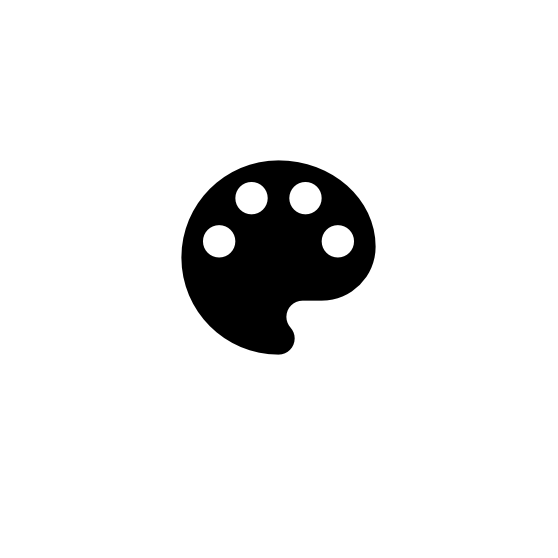
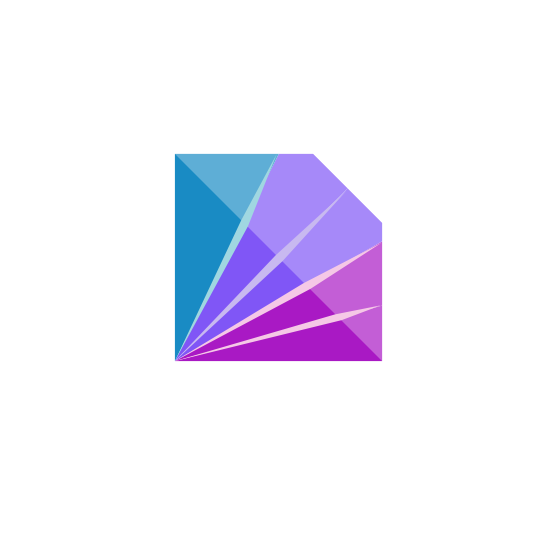
Update the page

Changed region(s): [[0.3047, 0.2742, 0.7007, 0.6703]]

diff --git a/icons/icons-demo.html b/icons/icons-demo.html
@@ -10,19 +10,19 @@
     </style>
   <head>
   <body>
-    <svg xmlns="http://www.w3.org/2000/svg" style="width:0;height:0;visibility:hidden;"><symbol viewBox="0 0 700.000000 700.000000" id="icon--safari-pinned-tab"> <metadata> Created by potrace 1.11, written by Peter Selinger 2001-2013 </metadata> <g transform="translate(0.000000,700.000000) scale(0.100000,-0.100000)" fill="#000000" stroke="none"> <path d="M3188 6105 c-1212 -153 -2152 -1098 -2293 -2304 -19 -161 -19 -441 0
--602 141 -1211 1093 -2163 2304 -2304 187 -22 363 -20 437 5 158 54 270 188
-293 350 17 127 -15 233 -109 360 -88 119 -120 229 -101 348 26 165 132 292
-288 349 61 22 76 23 346 23 314 1 483 10 602 35 597 123 1053 599 1150 1200
-19 121 19 351 0 497 -124 944 -878 1724 -1911 1978 -224 55 -362 72 -644 75
--176 3 -288 0 -362 -10z m-290 -583 c316 -99 412 -493 178 -728 -148 -147
--379 -167 -553 -48 -300 206 -224 670 126 778 66 21 178 19 249 -2z m1449 3
-c166 -49 286 -186 312 -355 41 -263 -162 -500 -428 -500 -126 0 -221 39 -307
-124 -134 135 -168 322 -89 494 70 153 221 250 391 251 39 1 93 -6 121 -14z
-m-2321 -1171 c127 -36 238 -146 285 -282 23 -67 25 -186 4 -255 -64 -212 -269
--343 -484 -310 -255 40 -423 293 -357 538 65 246 303 378 552 309z m3209 -1
-c227 -71 356 -316 285 -544 -95 -308 -474 -408 -713 -189 -90 83 -137 191
--137 321 0 293 283 499 565 412z"/> </g> </symbol><symbol viewBox="0 0 24 24" id="icon--progrees-circle"> <path d="m 12,4 c 4.4,0 8,3.6 8,8 0,4.4 -3.6,8 -8,8 C 7.6,20 4,16.4 4,12 3.3,11.4 2.7,11.2 2,12 2,17.5 6.5,22 12,22 17.5,22 22,17.5 22,12 22,6.5 17.5,2 12,2 11.2,2.7 11.4,3.3 12,4 Z"> <animateTransform xmlns="http://www.w3.org/2000/svg" attributeName="transform" type="rotate" values="0 12 12;180 12 12;360 12 12;" keyTimes="0;0.5;1" dur="1s" repeatCount="indefinite" begin="0s"/> </path> </symbol><symbol viewBox="0 0 24 24" id="icon--logo"> <sodipodi:namedview pagecolor="#ffffff" bordercolor="#666666" borderopacity="1" objecttolerance="10" gridtolerance="10" guidetolerance="10" inkscape:pageopacity="0" inkscape:pageshadow="2" inkscape:window-width="640" inkscape:window-height="480" id="icon--logo-namedview6" showgrid="false" inkscape:zoom="26.4375" inkscape:cx="8.3816834" inkscape:cy="10.294189" inkscape:current-layer="svg2" showguides="true" inkscape:guide-bbox="true"> <sodipodi:guide id="icon--logo-guide4136" orientation="0,24" position="0,0"/> <sodipodi:guide id="icon--logo-guide4138" orientation="-24,0" position="24,0"/> <sodipodi:guide id="icon--logo-guide4140" orientation="0,-24" position="24,24"/> <sodipodi:guide id="icon--logo-guide4142" orientation="24,0" position="0,24"/> <sodipodi:guide id="icon--logo-guide4159" position="0,24.0" orientation="0,24.0"/> <sodipodi:guide id="icon--logo-guide4161" position="24.0,0" orientation="0,24.0"/> <sodipodi:guide id="icon--logo-guide4163" position="0,24.0" orientation="24.0,0"/> <sodipodi:guide orientation="0,24.0" position="0,21.6" id="icon--logo-guide4328"/> <sodipodi:guide orientation="0,24.0" position="0,2.4" id="icon--logo-guide4330"/> <sodipodi:guide orientation="24.0,0" position="2.4,0" id="icon--logo-guide4332"/> <sodipodi:guide orientation="24.0,0" position="21.6,0" id="icon--logo-guide4334"/> <sodipodi:guide orientation="0,19.2" position="0,8.8" id="icon--logo-guide4336"/> <sodipodi:guide orientation="0,19.2" position="0,15.2" id="icon--logo-guide4338"/> <sodipodi:guide orientation="19.2,0" position="8.8,0" id="icon--logo-guide4340"/> <sodipodi:guide orientation="19.2,0" position="15.2,0" id="icon--logo-guide4342"/> <sodipodi:guide id="icon--logo-guide4601" position="24.0,0" orientation="0.525321988818,0.525321988818"/> <sodipodi:guide id="icon--logo-guide4603" position="24.0,24.0" orientation="-0.850903524534,0.850903524534"/> <sodipodi:guide position="21.6,15.2" orientation="0.70710678,0.70710678" id="icon--logo-guide4637"/> <sodipodi:guide position="2.4,2.4" orientation="-0.5,0.8660254" id="icon--logo-guide4674"/> <sodipodi:guide position="2.4,2.4" orientation="-0.25881905,0.96592583" id="icon--logo-guide4676"/> </sodipodi:namedview>  <metadata id="icon--logo-metadata12"> <rdf:RDF> <cc:Work rdf:about=""> <dc:format>image/svg+xml</dc:format> <dc:type rdf:resource="http://purl.org/dc/dcmitype/StillImage"/> <dc:title/> </cc:Work> </rdf:RDF> </metadata> <path d="m 2.4,21.6 16,-16 -3.2,-3.2 -3.171631,0 L 8.8,8.8 Z" id="icon--logo-path4686" inkscape:connector-curvature="0"/> <g id="icon--logo-g4645"> <path inkscape:connector-curvature="0" id="icon--logo-path4639" d="M 2.4,21.6 8.8,8.8 12,12 18.4,5.6 15.2,2.4 2.4,2.4 Z"/> <path sodipodi:nodetypes="cccc" inkscape:connector-curvature="0" id="icon--logo-path4641" d="M 12.028369,2.4 15.2,2.4 8.8,8.8 Z"/> <path inkscape:connector-curvature="0" id="icon--logo-path4643" d="M 2.4,21.6 12.028369,2.4 2.4,2.4 Z"/> </g> <path d="m 2.4,21.6 19.2,-11.085125 0,5.9405 z" id="icon--logo-path4682" inkscape:connector-curvature="0"/> <path d="M 2.4,21.6 21.6,10.514875 21.6,8.8 18.4,5.6 Z" id="icon--logo-path4684" inkscape:connector-curvature="0"/> <path d="M 2.4,21.6 21.6,16.455375 21.6,21.6 Z" id="icon--logo-path4688" inkscape:connector-curvature="0"/> </symbol><symbol viewBox="0 0 24 24" id="icon--add"> <path d="M0 0h24v24H0z" fill="none"/> <path d="M13 7h-2v4H7v2h4v4h2v-4h4v-2h-4V7zm-1-5C6.48 2 2 6.48 2 12s4.48 10 10 10 10-4.48 10-10S17.52 2 12 2zm0 18c-4.41 0-8-3.59-8-8s3.59-8 8-8 8 3.59 8 8-3.59 8-8 8z"/> </symbol><symbol viewBox="0 0 24 24" id="icon--download"> <path d="M19 9h-4V3H9v6H5l7 7 7-7zM5 18v2h14v-2H5z"/> <path d="M0 0h24v24H0z" fill="none"/> </symbol><symbol viewBox="0 0 24 24" id="icon--github"><path fill="none" d="M0 0h24v24H0z"/><path fill-rule="evenodd" d="M12 2.5c-5.52 0-10 4.47-10 10 0 4.4 2.87 8.16 6.84 9.48.5.1.68-.2.68-.48v-1.7c-2.8.6-3.38-1.34-3.38-1.34C5.68 17.3 5.04 17 5.04 17c-.92-.62.06-.6.06-.6 1 .06 1.53 1.02 1.53 1.02.9 1.53 2.34 1.1 2.9.83.1-.65.36-1.1.64-1.34-2.22-.2-4.55-1.1-4.55-4.9 0-1.1.4-2 1.03-2.7-.1-.24-.45-1.25.1-2.63 0 0 .84-.27 2.75 1.03.8-.24 1.65-.35 2.5-.35.85 0 1.7.1 2.5.34 1.9-1.3 2.75-1.05 2.75-1.05.55 1.38.2 2.4.1 2.65.64.7 1.03 1.58 1.03 2.67 0 3.84-2.34 4.7-4.57 4.94.4.3.7.94.7 1.88v2.74c0 .28.2.6.7.5 3.98-1.33 6.8-5.08 6.8-9.5 0-5.5-4.44-10-10-10"/></symbol><symbol viewBox="0 0 24 24" id="icon--less"> <path d="M15.41 16.09l-4.58-4.59 4.58-4.59L14 5.5l-6 6 6 6z"/> <path d="M0-.5h24v24H0z" fill="none"/> </symbol><symbol viewBox="0 0 24 24" id="icon--link"><path d="M16,6H13V7.9H16C18.26,7.9 20.1,9.73 20.1,12A4.1,4.1 0 0,1 16,16.1H13V18H16A6,6 0 0,0 22,12C22,8.68 19.31,6 16,6M3.9,12C3.9,9.73 5.74,7.9 8,7.9H11V6H8A6,6 0 0,0 2,12A6,6 0 0,0 8,18H11V16.1H8C5.74,16.1 3.9,14.26 3.9,12M8,13H16V11H8V13Z"/></symbol><symbol viewBox="0 0 24 24" id="icon--more"> <path d="M8.59 16.34l4.58-4.59-4.58-4.59L10 5.75l6 6-6 6z"/> <path d="M0-.25h24v24H0z" fill="none"/> </symbol><symbol viewBox="0 0 24 24" id="icon--move-left"> <path d="M15.41 16.09l-4.58-4.59 4.58-4.59L14 5.5l-6 6 6 6z"/> <path d="M0-.5h24v24H0z" fill="none"/> </symbol><symbol viewBox="0 0 24 24" id="icon--move-right"> <path d="M8.59 16.34l4.58-4.59-4.58-4.59L10 5.75l6 6-6 6z"/> <path d="M0-.25h24v24H0z" fill="none"/> </symbol><symbol viewBox="0 0 24 24" id="icon--move"> <path d="M6.99 11L3 15l3.99 4v-3H14v-2H6.99v-3zM21 9l-3.99-4v3H10v2h7.01v3L21 9z"/> <path d="M0 0h24v24H0z" fill="none"/> </symbol><symbol viewBox="0 0 24 24" id="icon--palette"> <metadata id="icon--palette-metadata12"> <rdf:RDF> <cc:Work rdf:about=""> <dc:format>image/svg+xml</dc:format> <dc:type rdf:resource="http://purl.org/dc/dcmitype/StillImage"/> <dc:title/> </cc:Work> </rdf:RDF> </metadata> <path d="M12 3c-4.97 0-9 4.03-9 9s4.03 9 9 9c.83 0 1.5-.67 1.5-1.5 0-.39-.15-.74-.39-1.01-.23-.26-.38-.61-.38-.99 0-.83.67-1.5 1.5-1.5H16c2.76 0 5-2.24 5-5 0-4.42-4.03-8-9-8zm-5.5 9c-.83 0-1.5-.67-1.5-1.5S5.67 9 6.5 9 8 9.67 8 10.5 7.33 12 6.5 12zm3-4C8.67 8 8 7.33 8 6.5S8.67 5 9.5 5s1.5.67 1.5 1.5S10.33 8 9.5 8zm5 0c-.83 0-1.5-.67-1.5-1.5S13.67 5 14.5 5s1.5.67 1.5 1.5S15.33 8 14.5 8zm3 4c-.83 0-1.5-.67-1.5-1.5S16.67 9 17.5 9s1.5.67 1.5 1.5-.67 1.5-1.5 1.5z"/> </symbol><symbol viewBox="0 0 24 24" id="icon--remove"><path d="M12,20C7.59,20 4,16.41 4,12C4,7.59 7.59,4 12,4C16.41,4 20,7.59 20,12C20,16.41 16.41,20 12,20M12,2C6.47,2 2,6.47 2,12C2,17.53 6.47,22 12,22C17.53,22 22,17.53 22,12C22,6.47 17.53,2 12,2M14.59,8L12,10.59L9.41,8L8,9.41L10.59,12L8,14.59L9.41,16L12,13.41L14.59,16L16,14.59L13.41,12L16,9.41L14.59,8Z"/></symbol><symbol viewBox="0 0 24 24" id="icon--share"><path d="M18,16.08C17.24,16.08 16.56,16.38 16.04,16.85L8.91,12.7C8.96,12.47 9,12.24 9,12C9,11.76 8.96,11.53 8.91,11.3L15.96,7.19C16.5,7.69 17.21,8 18,8A3,3 0 0,0 21,5A3,3 0 0,0 18,2A3,3 0 0,0 15,5C15,5.24 15.04,5.47 15.09,5.7L8.04,9.81C7.5,9.31 6.79,9 6,9A3,3 0 0,0 3,12A3,3 0 0,0 6,15C6.79,15 7.5,14.69 8.04,14.19L15.16,18.34C15.11,18.55 15.08,18.77 15.08,19C15.08,20.61 16.39,21.91 18,21.91C19.61,21.91 20.92,20.61 20.92,19A2.92,2.92 0 0,0 18,16.08Z"/></symbol><symbol viewBox="0 0 24 24" id="icon--tetrad"><path fill="none" d="M0 0h24v24H0z"/><path d="M14.7 3.18c-1.1 0-2 .9-2 2 0 .77.46 1.44 1.1 1.77l-1.35 5.92c-.15-.02-.3-.05-.45-.05-.18 0-.35.03-.53.06L9.8 7.02c.64-.33 1.08-1 1.08-1.76 0-1.1-.9-2-2-2s-2 .9-2 2 .87 1.98 1.96 2l1.66 5.86c.17-.07.34-.12.52-.16-.18.04-.35.1-.52.16-.4.16-.76.4-1.1.68l-3.23-2.88c.15-.27.24-.58.24-.92 0-1.1-.9-2-2-2s-2 .9-2 2 .9 2 2 2c.4 0 .8-.12 1.1-.33l3.25 2.86c-.46.65-.73 1.44-.73 2.3 0 2.2 1.8 4 4 4s4-1.8 4-4c0-.84-.24-1.6-.67-2.24-.1-.2-.24-.34-.37-.48.13.14.26.28.37.45l3.24-2.9c.3.2.66.32 1.06.32 1.1 0 2-.9 2-2s-.9-2-2-2-2 .9-2 2c0 .33.1.66.25.94l-3.23 2.87c-.36-.3-.77-.56-1.22-.73l1.35-5.93c1.06-.03 1.92-.9 1.92-2s-.88-2-2-2zm0 1a1 1 0 0 1 1 1 1 1 0 0 1-1 1 1 1 0 0 1-1-1 1 1 0 0 1 1-1zm-5.82.08a1 1 0 0 1 1 1 1 1 0 0 1-1 1 1 1 0 0 1-1-1 1 1 0 0 1 1-1zM14.2 7.1c.02 0 .04 0 .05.02 0 0-.03 0-.05-.02zm-4.8.08l-.05.02c.02 0 .04 0 .06-.02zM4.4 9a1 1 0 0 1 1 1 1 1 0 0 1-1 1 1 1 0 0 1-1-1 1 1 0 0 1 1-1zm15.23.02a1 1 0 0 1 1 1 1 1 0 0 1-1 1 1 1 0 0 1-1-1 1 1 0 0 1 1-1zM5.9 11.32l-.03.03.03-.03zm6.1 3.5a2 2 0 0 1 2 2 2 2 0 0 1-2 2 2 2 0 0 1-2-2 2 2 0 0 1 2-2z"/></symbol><symbol viewBox="0 0 24 24" id="icon--triad"><path d="M0 0h24v24H0z" fill="none"/><path d="M12 3c-1.66 0-3 1.34-3 3 0 1.48 1.07 2.7 2.47 2.95v4.1c-.7.1-1.33.36-1.86.76l-1.8-1.9c.4-.5.66-1.1.66-1.8 0-1.64-1.34-3-3-3-1.65 0-3 1.36-3 3 0 1.67 1.35 3 3 3 .6 0 1.18-.2 1.65-.5l1.84 1.96c-.56.7-.9 1.55-.9 2.5 0 2.2 1.8 4 4 4s4-1.8 4-4c0-.96-.35-1.83-.92-2.52l1.96-2.1c.46.27 1 .44 1.57.44 1.66 0 3-1.33 3-3 0-1.64-1.34-3-3-3-1.65 0-3 1.36-3 3 0 .73.27 1.38.68 1.9l-1.9 2.1c-.54-.4-1.2-.67-1.9-.75V9c1.4-.28 2.5-1.5 2.5-3 0-1.66-1.33-3-3-3zm0 1.5A1.5 1.5 0 0 1 13.5 6 1.5 1.5 0 0 1 12 7.5 1.5 1.5 0 0 1 10.5 6 1.5 1.5 0 0 1 12 4.5zm6.6 3.8a1.5 1.5 0 0 1 1.5 1.5 1.5 1.5 0 0 1-1.5 1.5 1.5 1.5 0 0 1-1.5-1.5 1.5 1.5 0 0 1 1.5-1.5zm-13.2.26a1.5 1.5 0 0 1 1.5 1.5 1.5 1.5 0 0 1-1.5 1.5 1.5 1.5 0 0 1-1.5-1.5 1.5 1.5 0 0 1 1.5-1.5zM12 15a2 2 0 0 1 2 2 2 2 0 0 1-2 2 2 2 0 0 1-2-2 2 2 0 0 1 2-2z"/></symbol><symbol viewBox="0 0 24 24" id="icon--url"><path d="M12 2C6.48 2 2 6.48 2 12s4.48 10 10 10 10-4.48 10-10S17.52 2 12 2zm-1 17.93c-3.95-.49-7-3.85-7-7.93 0-.62.08-1.21.21-1.79L9 15v1c0 1.1.9 2 2 2v1.93zm6.9-2.54c-.26-.81-1-1.39-1.9-1.39h-1v-3c0-.55-.45-1-1-1H8v-2h2c.55 0 1-.45 1-1V7h2c1.1 0 2-.9 2-2v-.41c2.93 1.19 5 4.06 5 7.41 0 2.08-.8 3.97-2.1 5.39z"/></symbol></svg>
+    <svg xmlns="http://www.w3.org/2000/svg" style="width:0;height:0;visibility:hidden;"><symbol viewBox="0 0 16.000000 16.000000" id="icon--safari-pinned-tab"> <metadata> Created by potrace 1.11, written by Peter Selinger 2001-2013 </metadata> <g transform="translate(0.000000,16.000000) scale(0.002286,-0.002286)" fill="#000000" stroke="none"> <path d="M700 3500 l0 -2800 2800 0 2800 0 0 1868 0 1867 -933 932 -932 933
+-1867 0 -1868 0 0 -2800z m2736 2752 c-3 -5 -174 -432 -380 -950 l-376 -941
+-960 -1773 c-844 -1559 -1042 -1920 -931 -1700 16 31 410 867 876 1857 l847
+1800 448 835 c246 459 452 845 459 858 6 12 14 22 17 22 3 0 3 -4 0 -8z m1848
+-1003 c-10 -12 -389 -429 -840 -926 l-822 -905 -1228 -1140 c-676 -628 -1317
+-1222 -1424 -1322 l-195 -181 296 310 c163 171 765 803 1338 1405 l1042 1094
+709 646 c389 356 752 687 806 737 306 283 367 336 318 282z m941 -1388 c-22
+-19 -1845 -1197 -1900 -1226 -101 -55 -3409 -1817 -3430 -1827 -79 -40 187
+123 1640 1002 l1640 994 720 374 c396 205 848 439 1005 519 157 80 294 152
+305 159 22 16 34 19 20 5z m-65 -1691 c-25 -10 -247 -95 -495 -189 l-450 -169
+-2100 -516 c-1155 -284 -2111 -518 -2125 -521 -58 -11 151 51 2050 605 l1995
+582 565 113 c311 63 574 114 585 114 11 0 0 -8 -25 -19z m-5203 -1406 c-3 -3
+-12 -4 -19 -1 -8 3 -5 6 6 6 11 1 17 -2 13 -5z"/> </g> </symbol><symbol viewBox="0 0 24 24" id="icon--progrees-circle"> <path d="m 12,4 c 4.4,0 8,3.6 8,8 0,4.4 -3.6,8 -8,8 C 7.6,20 4,16.4 4,12 3.3,11.4 2.7,11.2 2,12 2,17.5 6.5,22 12,22 17.5,22 22,17.5 22,12 22,6.5 17.5,2 12,2 11.2,2.7 11.4,3.3 12,4 Z"> <animateTransform xmlns="http://www.w3.org/2000/svg" attributeName="transform" type="rotate" values="0 12 12;180 12 12;360 12 12;" keyTimes="0;0.5;1" dur="1s" repeatCount="indefinite" begin="0s"/> </path> </symbol><symbol viewBox="0 0 24 24" id="icon--logo"><path fill="#8056f6" fill-rule="evenodd" d="M2.4 21.6l16-16-3.2-3.2h-3.17L8.8 8.8z"/><path fill="#198bc4" fill-rule="evenodd" d="M2.4 21.6l9.63-19.2H2.4z"/><path fill="#a919c4" fill-rule="evenodd" d="M2.4 21.6l19.2-11.1v5.96z"/><path fill="#8056f6" fill-rule="evenodd" d="M2.4 21.6l19.2-11.1V8.8l-3.2-3.2z"/><path fill="#a919c4" fill-rule="evenodd" d="M2.4 21.6l19.2-5.14v5.14z"/><path fill="#fff" fill-rule="evenodd" d="M2.4 2.4l19.2 19.2V8.8l-6.4-6.4z" opacity=".3"/><path fill="#a0d7e1" fill-rule="evenodd" d="M11.84 2.4l-3.3 6.16L2.4 21.6 9.17 9.1z"/><path fill="#c8b9f0" fill-rule="evenodd" d="M18.34 5.77l-6.58 6L2.4 21.6l9.98-9.27z"/><path fill="#f5c8e6" fill-rule="evenodd" d="M21.56 10.63l-7.22 3.74L2.4 21.6l12.57-6.7zm-.08 5.8l-4.24.84L2.4 21.6l15.47-3.8z"/></symbol><symbol viewBox="0 0 24 24" id="icon--add"> <path d="M0 0h24v24H0z" fill="none"/> <path d="M13 7h-2v4H7v2h4v4h2v-4h4v-2h-4V7zm-1-5C6.48 2 2 6.48 2 12s4.48 10 10 10 10-4.48 10-10S17.52 2 12 2zm0 18c-4.41 0-8-3.59-8-8s3.59-8 8-8 8 3.59 8 8-3.59 8-8 8z"/> </symbol><symbol viewBox="0 0 24 24" id="icon--download"> <path d="M19 9h-4V3H9v6H5l7 7 7-7zM5 18v2h14v-2H5z"/> <path d="M0 0h24v24H0z" fill="none"/> </symbol><symbol viewBox="0 0 24 24" id="icon--github"><path fill="none" d="M0 0h24v24H0z"/><path fill-rule="evenodd" d="M12 2.5c-5.52 0-10 4.47-10 10 0 4.4 2.87 8.16 6.84 9.48.5.1.68-.2.68-.48v-1.7c-2.8.6-3.38-1.34-3.38-1.34C5.68 17.3 5.04 17 5.04 17c-.92-.62.06-.6.06-.6 1 .06 1.53 1.02 1.53 1.02.9 1.53 2.34 1.1 2.9.83.1-.65.36-1.1.64-1.34-2.22-.2-4.55-1.1-4.55-4.9 0-1.1.4-2 1.03-2.7-.1-.24-.45-1.25.1-2.63 0 0 .84-.27 2.75 1.03.8-.24 1.65-.35 2.5-.35.85 0 1.7.1 2.5.34 1.9-1.3 2.75-1.05 2.75-1.05.55 1.38.2 2.4.1 2.65.64.7 1.03 1.58 1.03 2.67 0 3.84-2.34 4.7-4.57 4.94.4.3.7.94.7 1.88v2.74c0 .28.2.6.7.5 3.98-1.33 6.8-5.08 6.8-9.5 0-5.5-4.44-10-10-10"/></symbol><symbol viewBox="0 0 24 24" id="icon--less"> <path d="M15.41 16.09l-4.58-4.59 4.58-4.59L14 5.5l-6 6 6 6z"/> <path d="M0-.5h24v24H0z" fill="none"/> </symbol><symbol viewBox="0 0 24 24" id="icon--link"><path d="M16,6H13V7.9H16C18.26,7.9 20.1,9.73 20.1,12A4.1,4.1 0 0,1 16,16.1H13V18H16A6,6 0 0,0 22,12C22,8.68 19.31,6 16,6M3.9,12C3.9,9.73 5.74,7.9 8,7.9H11V6H8A6,6 0 0,0 2,12A6,6 0 0,0 8,18H11V16.1H8C5.74,16.1 3.9,14.26 3.9,12M8,13H16V11H8V13Z"/></symbol><symbol viewBox="0 0 24 24" id="icon--more"> <path d="M8.59 16.34l4.58-4.59-4.58-4.59L10 5.75l6 6-6 6z"/> <path d="M0-.25h24v24H0z" fill="none"/> </symbol><symbol viewBox="0 0 24 24" id="icon--move-left"> <path d="M15.41 16.09l-4.58-4.59 4.58-4.59L14 5.5l-6 6 6 6z"/> <path d="M0-.5h24v24H0z" fill="none"/> </symbol><symbol viewBox="0 0 24 24" id="icon--move-right"> <path d="M8.59 16.34l4.58-4.59-4.58-4.59L10 5.75l6 6-6 6z"/> <path d="M0-.25h24v24H0z" fill="none"/> </symbol><symbol viewBox="0 0 24 24" id="icon--move"> <path d="M6.99 11L3 15l3.99 4v-3H14v-2H6.99v-3zM21 9l-3.99-4v3H10v2h7.01v3L21 9z"/> <path d="M0 0h24v24H0z" fill="none"/> </symbol><symbol viewBox="0 0 24 24" id="icon--palette"> <metadata id="icon--palette-metadata12"> <rdf:RDF> <cc:Work rdf:about=""> <dc:format>image/svg+xml</dc:format> <dc:type rdf:resource="http://purl.org/dc/dcmitype/StillImage"/> <dc:title/> </cc:Work> </rdf:RDF> </metadata> <path d="M12 3c-4.97 0-9 4.03-9 9s4.03 9 9 9c.83 0 1.5-.67 1.5-1.5 0-.39-.15-.74-.39-1.01-.23-.26-.38-.61-.38-.99 0-.83.67-1.5 1.5-1.5H16c2.76 0 5-2.24 5-5 0-4.42-4.03-8-9-8zm-5.5 9c-.83 0-1.5-.67-1.5-1.5S5.67 9 6.5 9 8 9.67 8 10.5 7.33 12 6.5 12zm3-4C8.67 8 8 7.33 8 6.5S8.67 5 9.5 5s1.5.67 1.5 1.5S10.33 8 9.5 8zm5 0c-.83 0-1.5-.67-1.5-1.5S13.67 5 14.5 5s1.5.67 1.5 1.5S15.33 8 14.5 8zm3 4c-.83 0-1.5-.67-1.5-1.5S16.67 9 17.5 9s1.5.67 1.5 1.5-.67 1.5-1.5 1.5z"/> </symbol><symbol viewBox="0 0 24 24" id="icon--remove"><path d="M12,20C7.59,20 4,16.41 4,12C4,7.59 7.59,4 12,4C16.41,4 20,7.59 20,12C20,16.41 16.41,20 12,20M12,2C6.47,2 2,6.47 2,12C2,17.53 6.47,22 12,22C17.53,22 22,17.53 22,12C22,6.47 17.53,2 12,2M14.59,8L12,10.59L9.41,8L8,9.41L10.59,12L8,14.59L9.41,16L12,13.41L14.59,16L16,14.59L13.41,12L16,9.41L14.59,8Z"/></symbol><symbol viewBox="0 0 24 24" id="icon--share"><path d="M18,16.08C17.24,16.08 16.56,16.38 16.04,16.85L8.91,12.7C8.96,12.47 9,12.24 9,12C9,11.76 8.96,11.53 8.91,11.3L15.96,7.19C16.5,7.69 17.21,8 18,8A3,3 0 0,0 21,5A3,3 0 0,0 18,2A3,3 0 0,0 15,5C15,5.24 15.04,5.47 15.09,5.7L8.04,9.81C7.5,9.31 6.79,9 6,9A3,3 0 0,0 3,12A3,3 0 0,0 6,15C6.79,15 7.5,14.69 8.04,14.19L15.16,18.34C15.11,18.55 15.08,18.77 15.08,19C15.08,20.61 16.39,21.91 18,21.91C19.61,21.91 20.92,20.61 20.92,19A2.92,2.92 0 0,0 18,16.08Z"/></symbol><symbol viewBox="0 0 24 24" id="icon--tetrad"><path fill="none" d="M0 0h24v24H0z"/><path d="M14.7 3.18c-1.1 0-2 .9-2 2 0 .77.46 1.44 1.1 1.77l-1.35 5.92c-.15-.02-.3-.05-.45-.05-.18 0-.35.03-.53.06L9.8 7.02c.64-.33 1.08-1 1.08-1.76 0-1.1-.9-2-2-2s-2 .9-2 2 .87 1.98 1.96 2l1.66 5.86c.17-.07.34-.12.52-.16-.18.04-.35.1-.52.16-.4.16-.76.4-1.1.68l-3.23-2.88c.15-.27.24-.58.24-.92 0-1.1-.9-2-2-2s-2 .9-2 2 .9 2 2 2c.4 0 .8-.12 1.1-.33l3.25 2.86c-.46.65-.73 1.44-.73 2.3 0 2.2 1.8 4 4 4s4-1.8 4-4c0-.84-.24-1.6-.67-2.24-.1-.2-.24-.34-.37-.48.13.14.26.28.37.45l3.24-2.9c.3.2.66.32 1.06.32 1.1 0 2-.9 2-2s-.9-2-2-2-2 .9-2 2c0 .33.1.66.25.94l-3.23 2.87c-.36-.3-.77-.56-1.22-.73l1.35-5.93c1.06-.03 1.92-.9 1.92-2s-.88-2-2-2zm0 1a1 1 0 0 1 1 1 1 1 0 0 1-1 1 1 1 0 0 1-1-1 1 1 0 0 1 1-1zm-5.82.08a1 1 0 0 1 1 1 1 1 0 0 1-1 1 1 1 0 0 1-1-1 1 1 0 0 1 1-1zM14.2 7.1c.02 0 .04 0 .05.02 0 0-.03 0-.05-.02zm-4.8.08l-.05.02c.02 0 .04 0 .06-.02zM4.4 9a1 1 0 0 1 1 1 1 1 0 0 1-1 1 1 1 0 0 1-1-1 1 1 0 0 1 1-1zm15.23.02a1 1 0 0 1 1 1 1 1 0 0 1-1 1 1 1 0 0 1-1-1 1 1 0 0 1 1-1zM5.9 11.32l-.03.03.03-.03zm6.1 3.5a2 2 0 0 1 2 2 2 2 0 0 1-2 2 2 2 0 0 1-2-2 2 2 0 0 1 2-2z"/></symbol><symbol viewBox="0 0 24 24" id="icon--triad"><path d="M0 0h24v24H0z" fill="none"/><path d="M12 3c-1.66 0-3 1.34-3 3 0 1.48 1.07 2.7 2.47 2.95v4.1c-.7.1-1.33.36-1.86.76l-1.8-1.9c.4-.5.66-1.1.66-1.8 0-1.64-1.34-3-3-3-1.65 0-3 1.36-3 3 0 1.67 1.35 3 3 3 .6 0 1.18-.2 1.65-.5l1.84 1.96c-.56.7-.9 1.55-.9 2.5 0 2.2 1.8 4 4 4s4-1.8 4-4c0-.96-.35-1.83-.92-2.52l1.96-2.1c.46.27 1 .44 1.57.44 1.66 0 3-1.33 3-3 0-1.64-1.34-3-3-3-1.65 0-3 1.36-3 3 0 .73.27 1.38.68 1.9l-1.9 2.1c-.54-.4-1.2-.67-1.9-.75V9c1.4-.28 2.5-1.5 2.5-3 0-1.66-1.33-3-3-3zm0 1.5A1.5 1.5 0 0 1 13.5 6 1.5 1.5 0 0 1 12 7.5 1.5 1.5 0 0 1 10.5 6 1.5 1.5 0 0 1 12 4.5zm6.6 3.8a1.5 1.5 0 0 1 1.5 1.5 1.5 1.5 0 0 1-1.5 1.5 1.5 1.5 0 0 1-1.5-1.5 1.5 1.5 0 0 1 1.5-1.5zm-13.2.26a1.5 1.5 0 0 1 1.5 1.5 1.5 1.5 0 0 1-1.5 1.5 1.5 1.5 0 0 1-1.5-1.5 1.5 1.5 0 0 1 1.5-1.5zM12 15a2 2 0 0 1 2 2 2 2 0 0 1-2 2 2 2 0 0 1-2-2 2 2 0 0 1 2-2z"/></symbol><symbol viewBox="0 0 24 24" id="icon--url"><path d="M12 2C6.48 2 2 6.48 2 12s4.48 10 10 10 10-4.48 10-10S17.52 2 12 2zm-1 17.93c-3.95-.49-7-3.85-7-7.93 0-.62.08-1.21.21-1.79L9 15v1c0 1.1.9 2 2 2v1.93zm6.9-2.54c-.26-.81-1-1.39-1.9-1.39h-1v-3c0-.55-.45-1-1-1H8v-2h2c.55 0 1-.45 1-1V7h2c1.1 0 2-.9 2-2v-.41c2.93 1.19 5 4.06 5 7.41 0 2.08-.8 3.97-2.1 5.39z"/></symbol></svg>
 
         <svg>
           <use xlink:href="#icon--safari-pinned-tab" />

diff --git a/app-min.js b/app-min.js
@@ -1,2 +1,2 @@
-!function(a,b){"use strict";a.module("app",["ngRoute","com.likalo.ui"]).constant("APP_META",{title:"pal-pal",description:"A simple palette management tool.",icon:"palette",maxColors:11}).config(["$routeProvider","$locationProvider",function(a,b){a.when("/:sequence?",{templateUrl:"templates/page.home.html",controller:"HomeCtrl"}).otherwise({redirectTo:"/"}),b.html5Mode(!1)}]),a.module("app").directive("colorPicker",["$colorSerice",function(a){function b(a){return a.h=Math.floor(a.h),a.s=Math.floor(100*a.s),a.v=Math.floor(100*a.v),a}function c(b){return!!a(b).isValid()&&(0===b.indexOf("#")?b:"#"+b)}return{require:"ngModel",scope:{},replace:!0,templateUrl:"templates/directive.colorpicker.html",link:function(d,e,f,g){g.$formatters.push(function(b){return a(b)}),g.$render=function(){var a=g.$viewValue;d.color=a,d.controls={rgb:a.toRgb(),hsv:b(a.toHsv()),hex:a.toHexString(),name:a.toName()}},g.$parsers.push(function(a){return a.toHexString()}),d.colornames=a.names,d.onHexChanged=function(){var e,f;e=c(d.controls.hex),e&&(f=a(e),d.controls.rgb=f.toRgb(),d.controls.hsv=b(f.toHsv()),d.controls.name=f.toName(),g.$setViewValue(f))},d.onRgbChanged=function(){var c=a(d.controls.rgb);d.controls.hsv=b(c.toHsv()),d.controls.hex=c.toHexString(),d.controls.name=c.toName(),g.$setViewValue(c)},d.onHsvChanged=function(){var b=a(d.controls.hsv);d.controls.rgb=b.toRgb(),d.controls.hex=b.toHexString(),d.controls.name=b.toName(),g.$setViewValue(b)}}}}]),a.module("app").factory("$colorSerice",["$window",function(a){return a.tinycolor||{}}]),a.module("app").factory("$exportSerice",["$location","$colorSerice","normalizeColorBitFilter",function(b,c,d){function e(a,b){var c=0;return a.replace(/%s/g,function(){return b[c++]||""})}function f(a){return a.join("-").replace(/#/g,"")}function g(a,b,c){var d=new Blob([a],{type:c});return{filename:b,get:function(){var a=document.createElement("a");a.download=b,a.href=window.URL.createObjectURL(d),a.onclick=function(a){var b=this;setTimeout(function(){window.URL.revokeObjectURL(b.href)},1500)},a.click(),a.remove()}}}function h(a){return b.absUrl().split("#")[0]+"#/"+m}function i(a){var b=a.length,d=48+24*b,f=e(n,[d]);return f+=e(o,[d]),f+=a.map(function(a,b){c(a).toRgb();return e(p,[24+24*b,a])}).join(""),f+=e(q,[h(a)]),f+="</svg>",g(f,m+".svg","image/svg+xml")}function j(a){return""}function k(a){var b="GIMP Palette\nName: pal-pal\nColumns: 3\n";return b+=a.map(function(a){var b=c(a).toRgb();return e("%s %s %s %s",[b.r,b.g,b.b,a])}).join("\n"),g(b,m+".gpl","text/plain")}function l(b){return m=f(b),{string:m,url:h(b),json:a.toJson(b),gimp:k(b),ps:j(b),svg:i(b)}}var m,n='<svg width="%s" height="48" xmlns="http://www.w3.org/2000/svg">',o='<rect width="%s" x="0" y="0" height="48" fill="#fff" />',p='<rect width="24" height="24" x="%s" y="8" fill="%s" />',q='<text x="5" y="44" font-family="sans" font-size="4">%s</text>';return l}]),a.module("app").filter("normalizeColorBit",function(){return function(a,b){return b=b||"000",isNaN(parseFloat(a))||!isFinite(a)?b:("000"+Math.floor(a)).slice(-3)}}).filter("removeSpaces",[function(){return function(b){return a.isString(b)?b.replace(/[\s]/g,""):b}}]).filter("cut",function(){return function(a,b,c,d){if(!a)return"";if(c=parseInt(c,10),!c)return a;if(a.length<=c)return a;if(a=a.substr(0,c),b){var e=a.lastIndexOf(" ");e!=-1&&("."!=a.charAt(e-1)&&","!=a.charAt(e-1)||(e-=1),a=a.substr(0,e))}return a+(d||" …")}}),a.module("app").controller("HomeCtrl",["APP_META","$scope","$colorSerice","$exportSerice","$importSerice","$routeParams","uiDialog",function(a,b,c,d,e,f,g){function h(a,b){var d=a&&c(a)||c.random();switch(b){case"analogous":return d.analogous(1).map(function(a){return a.toHexString()});case"tetrad":return d.tetrad().map(function(a){return a.toHexString()});case"triad":default:return d.triad().map(function(a){return a.toHexString()})}}function i(a,b,c){a[b]=a.splice(c,1,a[b])[0]}b.maxColors=a.maxColors,b.palette=e(f.sequence)||h(),b.mostReadable=function(a){return c.mostReadable(a,["#444","#999","#fff"]).toHexString()},b.add=function(){b.palette.length>a.maxColors||b.palette.push(c.random().toHexString())},b.moveLeft=function(a){0!==a&&i(b.palette,a-1,a)},b.moveRight=function(a){a!==b.palette.length-1&&i(b.palette,a+1,a)},b.remove=function(a){b.palette.length<2||b.palette.splice(a,1)},b.generateAnalogous=function(a){b.palette=h(b.palette[a],"analogous")},b.generateTriad=function(a){b.palette=h(b.palette[a],"triad")},b.generateTetrad=function(a){b.palette=h(b.palette[a],"tetrad")},b.brightness=function(a){b.palette.forEach(function(c,d){b.palette[d]=a>0?tinycolor(c).lighten().toString():tinycolor(c).darken().toString()})},b.saturation=function(a){b.palette.forEach(function(c,d){b.palette[d]=a>0?tinycolor(c).saturate().toString():tinycolor(c).desaturate().toString()})},b.getRowLength=function(){return Math.min(b.palette.length,6)},b["export"]=function(){var a=d(b.palette);console.log(a.json),g.modal("templates/modal.export.html",["$scope","data",function(a,b){a.data=b}],{resolve:{data:function(){return a}}})}}]),a.module("app").factory("$importSerice",[function(){function b(b){return a.isDefined(b)&&b.split("-").map(function(a){return"#"+a})}return b}]),a.module("app").controller("PageCtrl",["APP_META","$scope",function(a,b){b.APP_META=a}])}(window.angular);
+!function(a,b){"use strict";a.module("app",["ngRoute","com.likalo.ui"]).constant("APP_META",{title:"pal-pal",description:"A simple palette management tool.",icon:"logo",maxColors:11}).config(["$routeProvider","$locationProvider",function(a,b){a.when("/:sequence?",{templateUrl:"templates/page.home.html",controller:"HomeCtrl"}).otherwise({redirectTo:"/"}),b.html5Mode(!1)}]),a.module("app").directive("colorPicker",["$colorSerice",function(a){function b(a){return a.h=Math.floor(a.h),a.s=Math.floor(100*a.s),a.v=Math.floor(100*a.v),a}function c(b){return!!a(b).isValid()&&(0===b.indexOf("#")?b:"#"+b)}return{require:"ngModel",scope:{},replace:!0,templateUrl:"templates/directive.colorpicker.html",link:function(d,e,f,g){g.$formatters.push(function(b){return a(b)}),g.$render=function(){var a=g.$viewValue;d.color=a,d.controls={rgb:a.toRgb(),hsv:b(a.toHsv()),hex:a.toHexString(),name:a.toName()}},g.$parsers.push(function(a){return a.toHexString()}),d.colornames=a.names,d.onHexChanged=function(){var e,f;e=c(d.controls.hex),e&&(f=a(e),d.controls.rgb=f.toRgb(),d.controls.hsv=b(f.toHsv()),d.controls.name=f.toName(),g.$setViewValue(f))},d.onRgbChanged=function(){var c=a(d.controls.rgb);d.controls.hsv=b(c.toHsv()),d.controls.hex=c.toHexString(),d.controls.name=c.toName(),g.$setViewValue(c)},d.onHsvChanged=function(){var b=a(d.controls.hsv);d.controls.rgb=b.toRgb(),d.controls.hex=b.toHexString(),d.controls.name=b.toName(),g.$setViewValue(b)}}}}]),a.module("app").factory("$colorSerice",["$window",function(a){return a.tinycolor||{}}]),a.module("app").factory("$exportSerice",["$location","$colorSerice","normalizeColorBitFilter",function(b,c,d){function e(a,b){var c=0;return a.replace(/%s/g,function(){return b[c++]||""})}function f(a){return a.join("-").replace(/#/g,"")}function g(a,b,c){var d=new Blob([a],{type:c});return{filename:b,get:function(){var a=document.createElement("a");a.download=b,a.href=window.URL.createObjectURL(d),a.onclick=function(a){var b=this;setTimeout(function(){window.URL.revokeObjectURL(b.href)},1500)},a.click(),a.remove()}}}function h(a){return b.absUrl().split("#")[0]+"#/"+m}function i(a){var b=a.length,d=48+24*b,f=e(n,[d]);return f+=e(o,[d]),f+=a.map(function(a,b){c(a).toRgb();return e(p,[24+24*b,a])}).join(""),f+=e(q,[h(a)]),f+="</svg>",g(f,m+".svg","image/svg+xml")}function j(a){return""}function k(a){var b="GIMP Palette\nName: pal-pal\nColumns: 3\n";return b+=a.map(function(a){var b=c(a).toRgb();return e("%s %s %s %s",[b.r,b.g,b.b,a])}).join("\n"),g(b,m+".gpl","text/plain")}function l(b){return m=f(b),{string:m,url:h(b),json:a.toJson(b),gimp:k(b),ps:j(b),svg:i(b)}}var m,n='<svg width="%s" height="48" xmlns="http://www.w3.org/2000/svg">',o='<rect width="%s" x="0" y="0" height="48" fill="#fff" />',p='<rect width="24" height="24" x="%s" y="8" fill="%s" />',q='<text x="5" y="44" font-family="sans" font-size="4">%s</text>';return l}]),a.module("app").filter("normalizeColorBit",function(){return function(a,b){return b=b||"000",isNaN(parseFloat(a))||!isFinite(a)?b:("000"+Math.floor(a)).slice(-3)}}).filter("removeSpaces",[function(){return function(b){return a.isString(b)?b.replace(/[\s]/g,""):b}}]).filter("cut",function(){return function(a,b,c,d){if(!a)return"";if(c=parseInt(c,10),!c)return a;if(a.length<=c)return a;if(a=a.substr(0,c),b){var e=a.lastIndexOf(" ");e!=-1&&("."!=a.charAt(e-1)&&","!=a.charAt(e-1)||(e-=1),a=a.substr(0,e))}return a+(d||" …")}}),a.module("app").controller("HomeCtrl",["APP_META","$scope","$colorSerice","$exportSerice","$importSerice","$routeParams","uiDialog",function(a,b,c,d,e,f,g){function h(b,c){c.forEach(function(c){b.length<=a.maxColors&&b.push(c)})}function i(a,b){var d=a&&c(a)||c.random();switch(b){case"analogous":return d.analogous(1).map(function(a){return a.toHexString()});case"tetrad":return d.tetrad().map(function(a){return a.toHexString()});case"triad":default:return d.triad().map(function(a){return a.toHexString()})}}function j(a,b,c){a[b]=a.splice(c,1,a[b])[0]}b.maxColors=a.maxColors,b.palette=e(f.sequence)||i(),b.mostReadable=function(a){return c.mostReadable(a,["#444","#999","#fff"]).toHexString()},b.add=function(){b.palette.length>a.maxColors||b.palette.push(c.random().toHexString())},b.moveLeft=function(a){0!==a&&j(b.palette,a-1,a)},b.moveRight=function(a){a!==b.palette.length-1&&j(b.palette,a+1,a)},b.remove=function(a){b.palette.length<2||b.palette.splice(a,1)},b.generateAnalogous=function(a){b.palette=i(b.palette[a],"analogous")},b.generateTriad=function(a){var c=i(b.palette[a],"triad");isNaN(a)?b.palette=c:h(b.palette,c)},b.generateTetrad=function(a){var c=i(b.palette[a],"tetrad");isNaN(a)?b.palette=c:h(b.palette,c)},b.brightness=function(a){b.palette.forEach(function(d,e){b.palette[e]=a>0?c(d).lighten().toString():c(d).darken().toString()})},b.saturation=function(a){b.palette.forEach(function(d,e){b.palette[e]=a>0?c(d).saturate().toString():c(d).desaturate().toString()})},b.sort=function(){b.palette.sort(function(a,b){var d=c(a).toHsv(),e=c(b).toHsv();return d.h<e.h?-1:d.h>e.h?1:0})},b.getRowLength=function(){return Math.min(b.palette.length,6)},b["export"]=function(){var a=d(b.palette);console.log(a.json),g.modal("templates/modal.export.html",["$scope","data",function(a,b){a.data=b}],{resolve:{data:function(){return a}}})}}]),a.module("app").factory("$importSerice",[function(){function b(b){return a.isDefined(b)&&b.split("-").map(function(a){return"#"+a})}return b}]),a.module("app").controller("PageCtrl",["APP_META","$scope",function(a,b){b.APP_META=a}])}(window.angular);
 //# sourceMappingURL=app-min.js.map

diff --git a/app.js b/app.js
@@ -13,7 +13,7 @@ angular.module('app', [
  .constant('APP_META', {
      title: 'pal-pal',
      description: 'A simple palette management tool.',
-     icon: 'palette',
+     icon: 'logo',
      maxColors: 11
  })
  .config([
@@ -287,6 +287,13 @@ angular.module('app')
         'uiDialog',
         function(APP_META, $scope, $colorSerice, $exportSerice, $importSerice, $routeParams, uiDialog) {
 
+            function _merge(a, b) {
+                b.forEach(function(item){
+                    if(a.length <= APP_META.maxColors)
+                        a.push(item);
+                });
+            }
+
             function _generate(c, seq) {
                 var color = (c && $colorSerice(c)) || $colorSerice.random();
                 switch (seq) {
@@ -346,22 +353,36 @@ angular.module('app')
             }
 
             $scope.generateTriad = function(index) {
-                $scope.palette = _generate($scope.palette[index], 'triad');
+                var palette = _generate($scope.palette[index], 'triad');
+                if(isNaN(index))
+                    $scope.palette = palette;
+                else _merge($scope.palette,palette);
             }
 
             $scope.generateTetrad = function(index) {
-                $scope.palette = _generate($scope.palette[index], 'tetrad');
+                var palette = _generate($scope.palette[index], 'tetrad');
+                if(isNaN(index))
+                    $scope.palette = palette;
+                else _merge($scope.palette,palette);
             }
 
             $scope.brightness = function(val) {
                 $scope.palette.forEach(function(color, index){
-                    $scope.palette[index] = val>0? tinycolor(color).lighten().toString() : tinycolor(color).darken().toString();
+                    $scope.palette[index] = val>0? $colorSerice(color).lighten().toString() : $colorSerice(color).darken().toString();
                 });
             }
 
             $scope.saturation = function(val) {
                 $scope.palette.forEach(function(color, index){
-                    $scope.palette[index] = val>0? tinycolor(color).saturate().toString() : tinycolor(color).desaturate().toString();
+                    $scope.palette[index] = val>0? $colorSerice(color).saturate().toString() : $colorSerice(color).desaturate().toString();
+                });
+            }
+
+            $scope.sort = function() {
+                $scope.palette.sort(function(a,b){
+                    var _a = $colorSerice(a).toHsv(),
+                        _b = $colorSerice(b).toHsv();
+                    return _a.h < _b.h ? -1 : (_a.h > _b.h ? 1 : 0);
                 });
             }
 

diff --git a/templates/page.home.footer.html b/templates/page.home.footer.html
@@ -1,1 +1,1 @@
-<nav class="pure-menu pure-menu-horizontal layout--menu-row"><ul class="pure-menu-list"><li class="pure-menu-item"><a ng-click="brightness(-1)" class="pure-menu-link"><ui-icon class="layout--menu-icon" type="less"></ui-icon></a></li><li class="pure-menu-heading">Brightness</li><li class="pure-menu-item"><a ng-click="brightness(+1)" class="pure-menu-link"><ui-icon class="layout--menu-icon" type="more"></ui-icon></a></li><li class="pure-menu-separator"></li><li class="pure-menu-item"><a ng-click="saturation(-1)" class="pure-menu-link"><ui-icon class="layout--menu-icon" type="less"></ui-icon></a></li><li class="pure-menu-heading">Saturation</li><li class="pure-menu-item"><a ng-click="saturation(+1)" class="pure-menu-link"><ui-icon class="layout--menu-icon" type="more"></ui-icon></a></li></ul></nav>
+<nav class="pure-menu pure-menu-horizontal layout--menu-row"><ul class="pure-menu-list"><li class="pure-menu-item"><a ng-click="brightness(-1)" class="pure-menu-link"><ui-icon class="layout--menu-icon" type="less"></ui-icon></a></li><li class="pure-menu-heading">Brightness</li><li class="pure-menu-item"><a ng-click="brightness(+1)" class="pure-menu-link"><ui-icon class="layout--menu-icon" type="more"></ui-icon></a></li><li class="pure-menu-separator"></li><li class="pure-menu-item"><a ng-click="saturation(-1)" class="pure-menu-link"><ui-icon class="layout--menu-icon" type="less"></ui-icon></a></li><li class="pure-menu-heading">Saturation</li><li class="pure-menu-item"><a ng-click="saturation(+1)" class="pure-menu-link"><ui-icon class="layout--menu-icon" type="more"></ui-icon></a></li><li class="pure-menu-separator"></li><li class="pure-menu-item"><a ng-click="sort()" class="pure-menu-link">Re-order</a></li></ul></nav>

diff --git a/index.html b/index.html
@@ -29,7 +29,7 @@
   <meta name="theme-color" content="#ffffff"/>
 
   <link rel="stylesheet" type="text/css" href="lib-min.css?0.1.8">
-  <link rel="stylesheet" type="text/css" href="app-min.css?0.1.8">
+  <link rel="stylesheet" type="text/css" href="app.css?0.1.8">
  </head>
 
  <body ng-controller="PageCtrl">
@@ -40,7 +40,7 @@
   </div> <!--.app-->
   
   <script src="lib-min.js?0.1.8" type="text/javascript"></script>
-  <script src="app-min.js?0.1.8" type="text/javascript"></script>
+  <script src="app.js?0.1.8" type="text/javascript"></script>
   
   <!-- Include sidebar template -->
   <ng-include src="'icons/icons.svg?0.1.8'"></ng-include>
